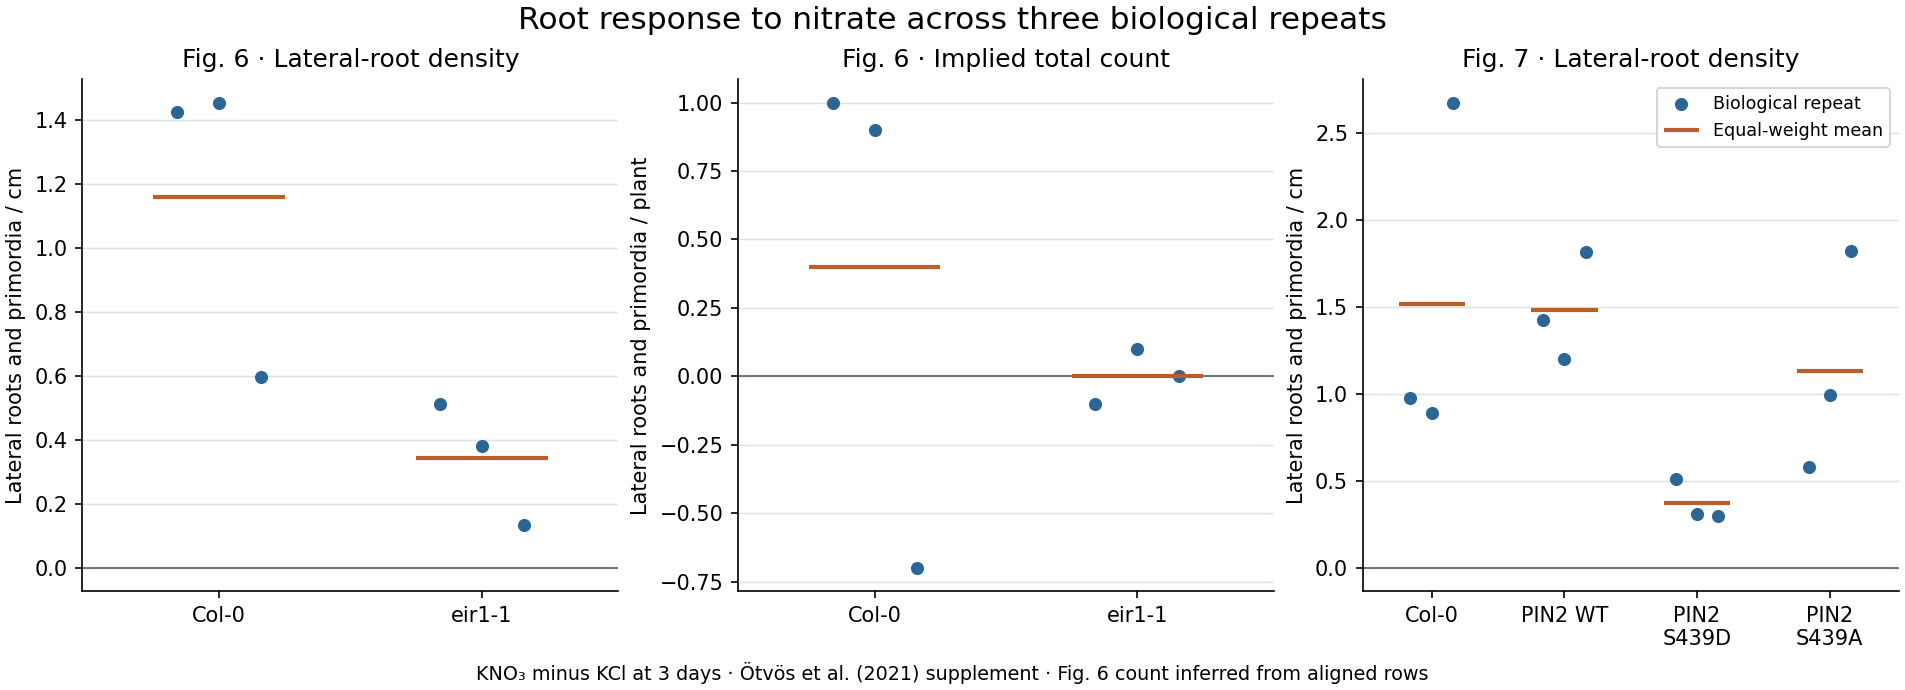
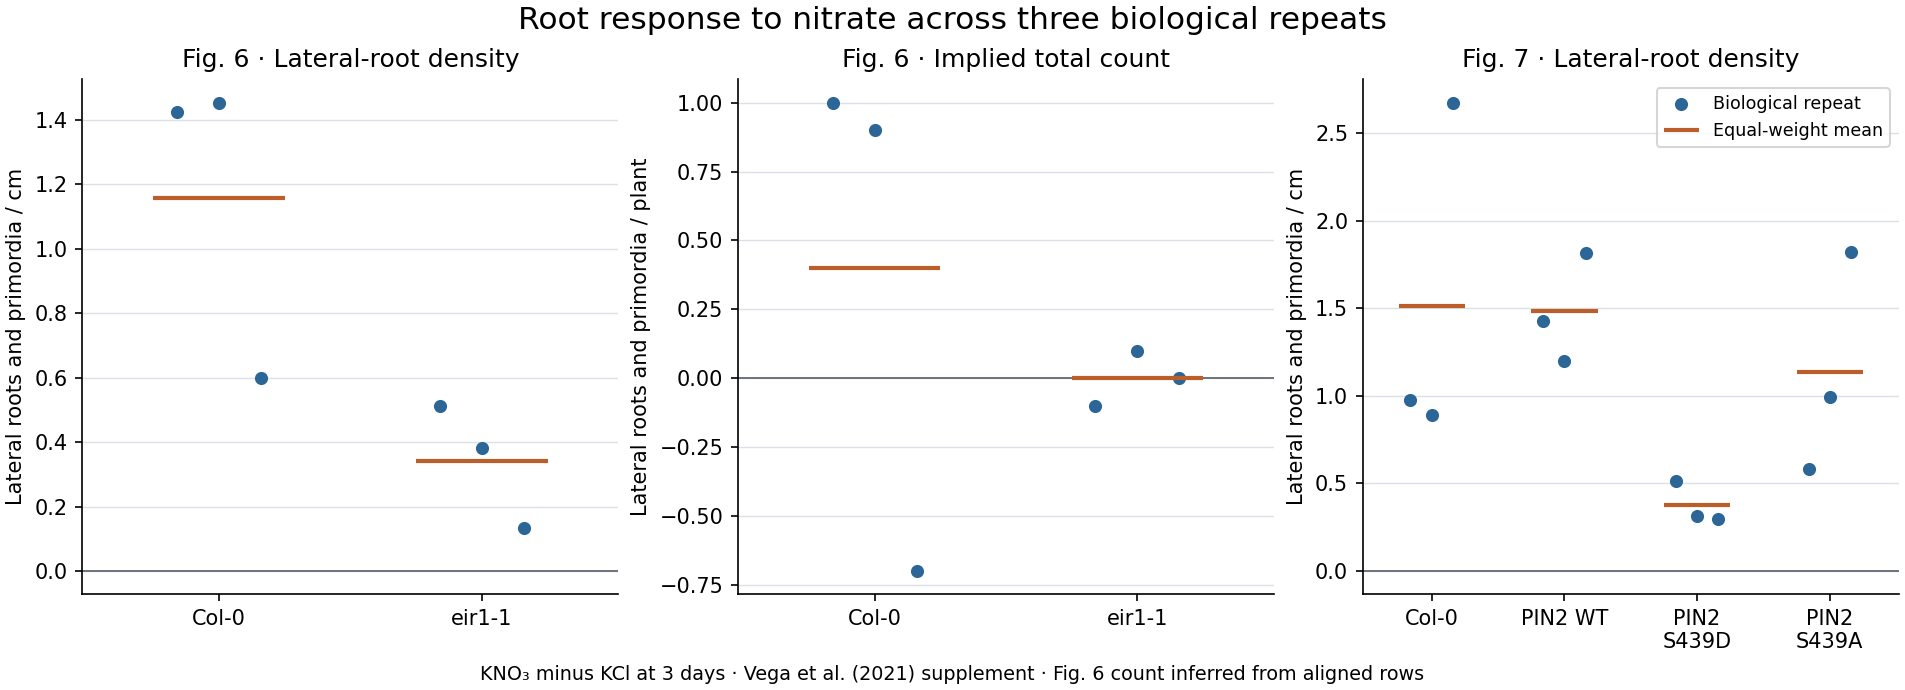
Correct E13 length units and credit Vega as first author for E23

diff --git a/experiments/E13_flux_transport/run.py b/experiments/E13_flux_transport/run.py
@@ -14,7 +14,7 @@ OUT = Path(__file__).resolve().parents[2] / "research/results/E13"
 LENGTH = 8.
 RADIUS = 1.4
 WIDTH = .48
-MAGNETIC_SCALE_S = .05
+MAGNETIC_SCALE_M = .05  # b (m/s) per unit vorticity (1/s)
 DURATION = .8
 THRESHOLDS = (.25, .35, .5)
 
@@ -152,13 +152,13 @@ def run_ring(grid, dt, viscosity, section_size):
     if viscosity==0.:
         names = ["vorticity", "matched_ideal"]
         diffusivities = np.array([0.,0.])
-        state = np.stack((velocity,MAGNETIC_SCALE_S*initial_omega))
+        state = np.stack((velocity,MAGNETIC_SCALE_M*initial_omega))
     else:
         names = ["vorticity", "magnetic_ideal", "matched", "faster_diffusion", "shifted", "zero"]
         diffusivities = np.array([viscosity,0.,viscosity,.18,viscosity,viscosity])
-        matched = MAGNETIC_SCALE_S*initial_omega
+        matched = MAGNETIC_SCALE_M*initial_omega
         state = np.stack((velocity,matched,matched,matched,
-                          MAGNETIC_SCALE_S*grid.ring(.7),np.zeros_like(matched)))
+                          MAGNETIC_SCALE_M*grid.ring(.7),np.zeros_like(matched)))
     points = sections(section_size)
     records, shapes, difference = [],[],[]
     sample_stride = round(.02/dt)
@@ -170,7 +170,7 @@ def run_ring(grid, dt, viscosity, section_size):
             records.append(record[:5])
             if record[-1] is not None:
                 shapes.append({"t_s":step*dt,"superlevel":record[-1]})
-            ref = MAGNETIC_SCALE_S*grid.curl(state[0])
+            ref = MAGNETIC_SCALE_M*grid.curl(state[0])
             index = names.index("matched") if viscosity else 1
             difference.append(relative_difference(grid,ref,state[index]))
         if step<num_steps:
@@ -187,6 +187,7 @@ def run_ring(grid, dt, viscosity, section_size):
     data = {
         "n": grid.n, "dt_s": dt, "section_intervals": section_size, "names": names,
         "coefficients_m2_s": diffusivities.tolist(),
+        "initial_magnetic_scale_m": MAGNETIC_SCALE_M,
         "flux_units": ["m2/s",*["m3/s"]*(len(names)-1)],
         "energy_units": "J at reference density 1 kg/m3",
         "max_divergence_spectral_relative": float(div),
@@ -201,7 +202,7 @@ def run_ring(grid, dt, viscosity, section_size):
         "dissipation_per_initial_energy": dict(zip(names, (np.trapezoid(dissipation, x=times, axis=0) / e0).tolist(), strict=True)),
         "zero_field_max": float(abs(state[-1]).max()) if viscosity else None,
         "shifted_final_field_l2_from_reference":
-            relative_difference(grid, MAGNETIC_SCALE_S*grid.curl(state[0]), state[names.index("shifted")])
+            relative_difference(grid, MAGNETIC_SCALE_M*grid.curl(state[0]), state[names.index("shifted")])
             if viscosity else None,
         "shapes":shapes,
     }

diff --git a/experiments/auxin_figures.py b/experiments/auxin_figures.py
@@ -119,7 +119,7 @@ def nutrient(root, path):
         axis.set_xlim(-.52, len(groups)-.48)
         style(axis, title, "", unit)
     axes[-1].legend(loc="upper right", fontsize=8.4)
-    fig.supxlabel("KNO₃ minus KCl at 3 days · Ötvös et al. (2021) supplement · Fig. 6 count inferred from aligned rows",
+    fig.supxlabel("KNO₃ minus KCl at 3 days · Vega et al. (2021) supplement · Fig. 6 count inferred from aligned rows",
                  fontsize=9.2)
     fig.savefig(path, dpi=150)
     plt.close(fig)

diff --git a/docs/16_AUXIN_TRANSPORT_REPORT.md b/docs/16_AUXIN_TRANSPORT_REPORT.md
@@ -33,7 +33,7 @@ Rashotteらの変異体で大きかった変化は根先から地上部側への
 
 ## E23　栄養への応答は、側根の密度と総数で違った
 
-Ötvösらの公開シートを3つの独立培養ごとに再集計した。5 mM硝酸カリウムと塩化カリウムを比べ、3日後に形成中・出現した側根の密度と主根長を測った。各培養で処置群の平均差を求め、その3回を等しく重みづけした。[事前登録](../research/registrations/E23-nitrate-and-pin2.md)・[原著](https://doi.org/10.15252/embr.202051813)
+Vegaらの公開シートを3つの独立培養ごとに再集計した。5 mM硝酸カリウムと塩化カリウムを比べ、3日後に形成中・出現した側根の密度と主根長を測った。各培養で処置群の平均差を求め、その3回を等しく重みづけした。[事前登録](../research/registrations/E23-nitrate-and-pin2.md)・[原著](https://doi.org/10.15252/embr.202051813)
 
 | Fig. 6の指標 | 野生型Col-0の変化 | PIN2欠損eir1-1の変化 |
 |---|---:|---:|
@@ -43,7 +43,7 @@ Rashotteらの変異体で大きかった変化は根先から地上部側への
 
 密度の変化は3回すべて野生型の方が大きく、その差は平均+0.82本/cm、各回+0.46〜+1.07本/cmだった。野生型の本数の差は各回+1.0、+0.9、−0.7本/個体。公開データには個体IDがないため、各培養内で並び順をそろえ、長さ×密度が整数に一致した群に限って本数を推定した。野生型の密度は処置あたり39個体、本数は長さと照合できた30個体。主根が短くなったことも踏まえると、密度の増加だけから一貫した本数の増加は判断できない。[反復ごとの図](../research/results/auxin_figures/nutrient_contrasts.png)・[シートの照合](../research/notes/E23_pin2_nitrate.md)
 
-別のFig. 7では、PIN2で補完した群で側根密度が+1.48本/cm、リン酸化状態を模したS439D群では+0.38本/cmだった。補完群の方が3回すべて増加が大きかった。もう一方の置換S439Aでは+1.13本/cmで、置換によって応答の大きさが異なった。別の培養条件では、Laskowskiらが発芽7日後のpin2で野生型より高い側根密度を報告している。PIN2の効果を支持できる範囲は、処置、時点、測定した指標で決まる。[Ötvös et al.](https://doi.org/10.15252/embr.202051813)・[Laskowski et al.](https://doi.org/10.1371/journal.pbio.0060307)・[E23の全比較](../research/results/E23/summary.json)
+別のFig. 7では、PIN2で補完した群で側根密度が+1.48本/cm、リン酸化状態を模したS439D群では+0.38本/cmだった。補完群の方が3回すべて増加が大きかった。もう一方の置換S439Aでは+1.13本/cmで、置換によって応答の大きさが異なった。別の培養条件では、Laskowskiらが発芽7日後のpin2で野生型より高い側根密度を報告している。PIN2の効果を支持できる範囲は、処置、時点、測定した指標で決まる。[Vega et al.](https://doi.org/10.15252/embr.202051813)・[Laskowski et al.](https://doi.org/10.1371/journal.pbio.0060307)・[E23の全比較](../research/results/E23/summary.json)
 
 ## 次に何を測れば支持が進むか
 

diff --git a/research/registrations/E13-E15-dynamics.md b/research/registrations/E13-E15-dynamics.md
@@ -5,7 +5,7 @@
 ## E13　渦度と磁場を運ぶ共通の時間発展
 
 - 長さ8 mの周期立方体、密度1 kg/m³。非圧縮Euler/Navier–StokesをFourier法で解き、その速度で弱い磁場を運ぶ。磁気による速度への力はここでは省く。磁場はアルヴェーン速度の単位にして b=B/√(ρμ₀)。二つの発展式は ∂ₜF=∇×(u×F)+κΔF で、渦度の場合κ=動粘性ν、磁場の場合κ=磁気拡散率η。磁場は別の状態変数として積分する。周期箱の大域位相を局在した渦輪の検出に用いない。
-- 初期の輪は、半径 R=1.4 m、幅 a=0.48 m、方位渦度 4(r/R) exp(−[(r²−R²)/(2Ra)]²−(z/a)²) s⁻¹。Fourier射影から速度を構成する。輪の発生試験ではなく、与えた輪の移流・変形・拡散試験。無粘性では ν=η=0 で b=0.05 s×ω を比較。粘性ありでは ν=0.03 m²/s、同じ磁場初期値で η=0、0.03、0.18 m²/s。出発時の比例が必須か調べるため、同拡散率で初期輪を軸方向に0.7 mずらした磁場とゼロ磁場も解く。
+- 初期の輪は、半径 R=1.4 m、幅 a=0.48 m、方位渦度 4(r/R) exp(−[(r²−R²)/(2Ra)]²−(z/a)²) s⁻¹。Fourier射影から速度を構成する。輪の発生試験ではなく、与えた輪の移流・変形・拡散試験。無粘性では ν=η=0 で b=0.05 m×ω（単位の訂正。bはm/s、ωはs⁻¹。係数の数値は0.05のまま） を比較。粘性ありでは ν=0.03 m²/s、同じ磁場初期値で η=0、0.03、0.18 m²/s。出発時の比例が必須か調べるため、同拡散率で初期輪を軸方向に0.7 mずらした磁場とゼロ磁場も解く。
 - 解析対照は uₓ=sin(kz) exp(−νk²t)、b_z=0.05 m/s、bₓの初期値0。η=ν=0.03、k=2π/8 m⁻¹。誘導成分 bₓ=0.05kt cos(kz) exp(−νk²t) を実装から独立に計算。渦度の輪の有無と磁気エネルギーの成長を確認。
 - 格子32³・48³、0.8 s、刻み0.01 s。48³では粘性群を0.005 sで再計算。2/3カット、4次Runge–Kutta。軸近くに単位長さは持ち込まず物理量の単位を表記。周方向4箇所、各辺0.90 mの物質断面（16×16分割、細格子では24×24の照合）を速度で移動させる。面流束 Φ_F と、境界線上の拡散項 −κ∮(∇×F)·dl を比較する。体積では速度二乗のエネルギーと磁場二乗のエネルギーを別に測り、粘性散逸、磁場伸長による仕事、抵抗散逸を保存。0.25、0.35、0.50の3閾値で輪候補も記録する。
 - 事前予測。解析対照の相対誤差0.5%以内、同拡散率かつ比例初期値で場の相対L²誤差10⁻⁸以内。0.8 sまでの理想流束変化と、拡散群の線積分との差は初期流束の5%以内。η=0.18の磁束減少はη=0.03より大きい。ゼロ磁場はゼロを保つ。エネルギー残差は初期値の2%以内。磁場と渦度が一致しても流体の運動エネルギー密度と磁気エネルギー密度は別の量。形と流束の維持が一致するかは結果とする。

diff --git a/research/notes/E13_flux_and_mhd.md b/research/notes/E13_flux_and_mhd.md
@@ -7,7 +7,7 @@
 密度が一様な非圧縮・一定粘性の流体で、速度の回転を ω とする。磁力による速度の変化を省いた誘導方程式の磁場をアルヴェーン速度で表した量を b とする。二つとも
 `∂ₜF = ∇×(u×F) + κΔF` と書ける。κはωで動粘性ν、bで磁気拡散率η。両者は発散ゼロなので、物質微分では `DₜF=(F·∇)u+κΔF`。速度で運ぶ軸付き面積要素は同じ勾配の転置で逆向きに変化する。この対が打ち消し合うため、運ばれる面を通る `Φ_F=∫F·dA` の時間微分には拡散項だけが残る。Stokesの定理と `ΔF=−curl curl F` を用いると `dΦ_F/dt=−κ∮curl(F)·dl`。
 
-κ=0で速度が滑らかなら、流れによって渦管・磁束管の境界が運ばれる。これは任意の物質断面で成立するため、閉じた渦管や磁束管にも適用できる。初期値に比例関係があり同じκであれば、差も同じ線形方程式のゼロ初期値として発展する。ローレンツ力を含むMHDの渦度式には追加の回転項がある。乱流中の粗い速度場と再結合を含む議論では、滑らかな古典的な流れの仮定が重要になる。Eyinkはこの先の確率的な磁束凍結を論じている。[Eyink 2011](https://doi.org/10.1103/PhysRevE.83.056405)・[全文](https://arxiv.org/abs/1008.4959)
+κ=0で速度が滑らかなら、流れによって渦管・磁束管の境界が運ばれる。これは任意の物質断面で成立するため、閉じた渦管や磁束管にも適用できる。初期値に比例関係があり同じκであれば、差も同じ線形方程式のゼロ初期値として発展する。E13の比例初期値は `b=0.05 m × ω`。アルヴェーン速度で表した b はm/s、渦度 ω はs⁻¹なので、係数は長さである。ローレンツ力を含むMHDの渦度式には追加の回転項がある。乱流中の粗い速度場と再結合を含む議論では、滑らかな古典的な流れの仮定が重要になる。Eyinkはこの先の確率的な磁束凍結を論じている。[Eyink 2011](https://doi.org/10.1103/PhysRevE.83.056405)・[全文](https://arxiv.org/abs/1008.4959)
 
 周期箱で、運動エネルギー `ρ∫|u|²/2` の変化は `−ρν∫|∇u|²`。受動磁場のエネルギー `ρ∫|b|²/2` の変化は `ρ∫bᵢbⱼ∂ⱼuᵢ−ρη∫|∇b|²`。第1項は流れによる磁場の伸長の仕事で、E13では数値的に等価な `∫(u×b)·curl(b)` で求めた。磁気エネルギーの増加を駆動する流れの仕事は受動近似の外から供給される。エネルギー交換で駆動側も変わる系は反作用を含むモデルが必要。渦度が大きい領域は `|curl u|`、運動エネルギーは `|u|²` で測るため、等値領域の形は個別の観測量になる。
 

diff --git a/research/registrations/E23-nitrate-and-pin2.md b/research/registrations/E23-nitrate-and-pin2.md
@@ -1,6 +1,6 @@
 # E23　栄養条件とPIN2が根の成長配分に及ぼす効果
 
-2026-11-20 UTC。E21の輸送介入が側根密度を下げることを確認した後、輸送因子と栄養条件の組合せで応答が変わるかを検証する。Ötvösらの研究（`10.15252/embr.202051813`）の抄録、図注、公開データの所在まで確認済み。Excelの数値を見る前に以下を登録する。
+2026-11-20 UTC。E21の輸送介入が側根密度を下げることを確認した後、輸送因子と栄養条件の組合せで応答が変わるかを検証する。Vegaらの研究（`10.15252/embr.202051813`）の抄録、図注、公開データの所在まで確認済み。Excelの数値を見る前に以下を登録する。
 
 - 主評価はFig. 6のCol-0とeir1-1（PIN2）の、硝酸条件とKCl比較条件における側根の密度。掲載された主根長・側根と原基の数も記録し、密度が変わるときに長さと絶対数がどう動いたかを確認する。主効果は各遺伝型での硝酸条件と比較条件の差、次にその差の遺伝型間差。図の軸・単位・計測時点を公開シートに照合する。KCl比較は論文の対照として扱い、硝酸と参照塩の化学的な効果すべてを共通機構に割り当てない。
 - Fig. 7の野生型・PIN2で補完した系統・S439の二つの置換の各群は副評価。硝酸による差を同じ測定量で比較する。組織の輸送や膜局在の観測があっても、戻る流束が同じ個体で直接測られているかを区別する。全ての図を一つの母集団に併合しない。
